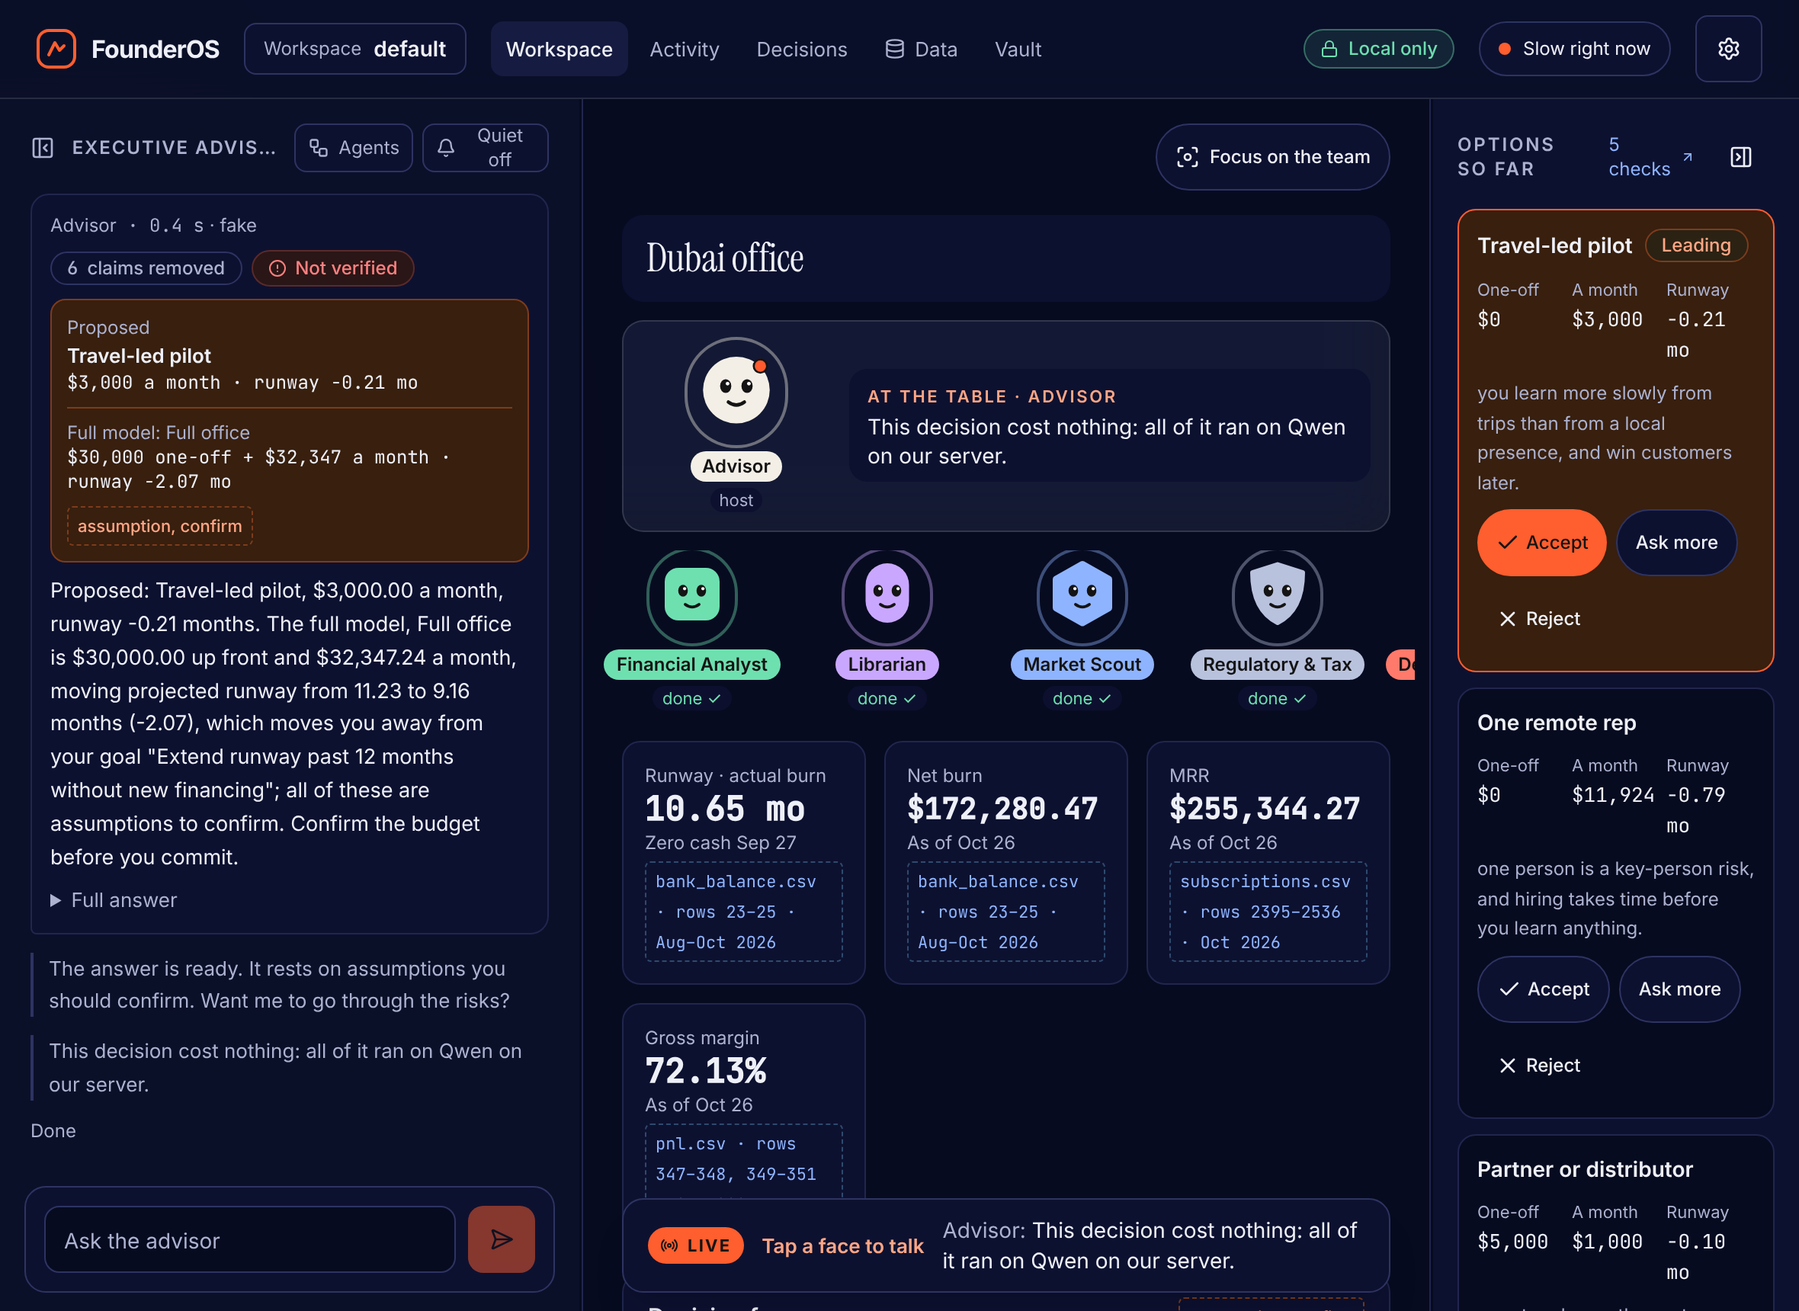
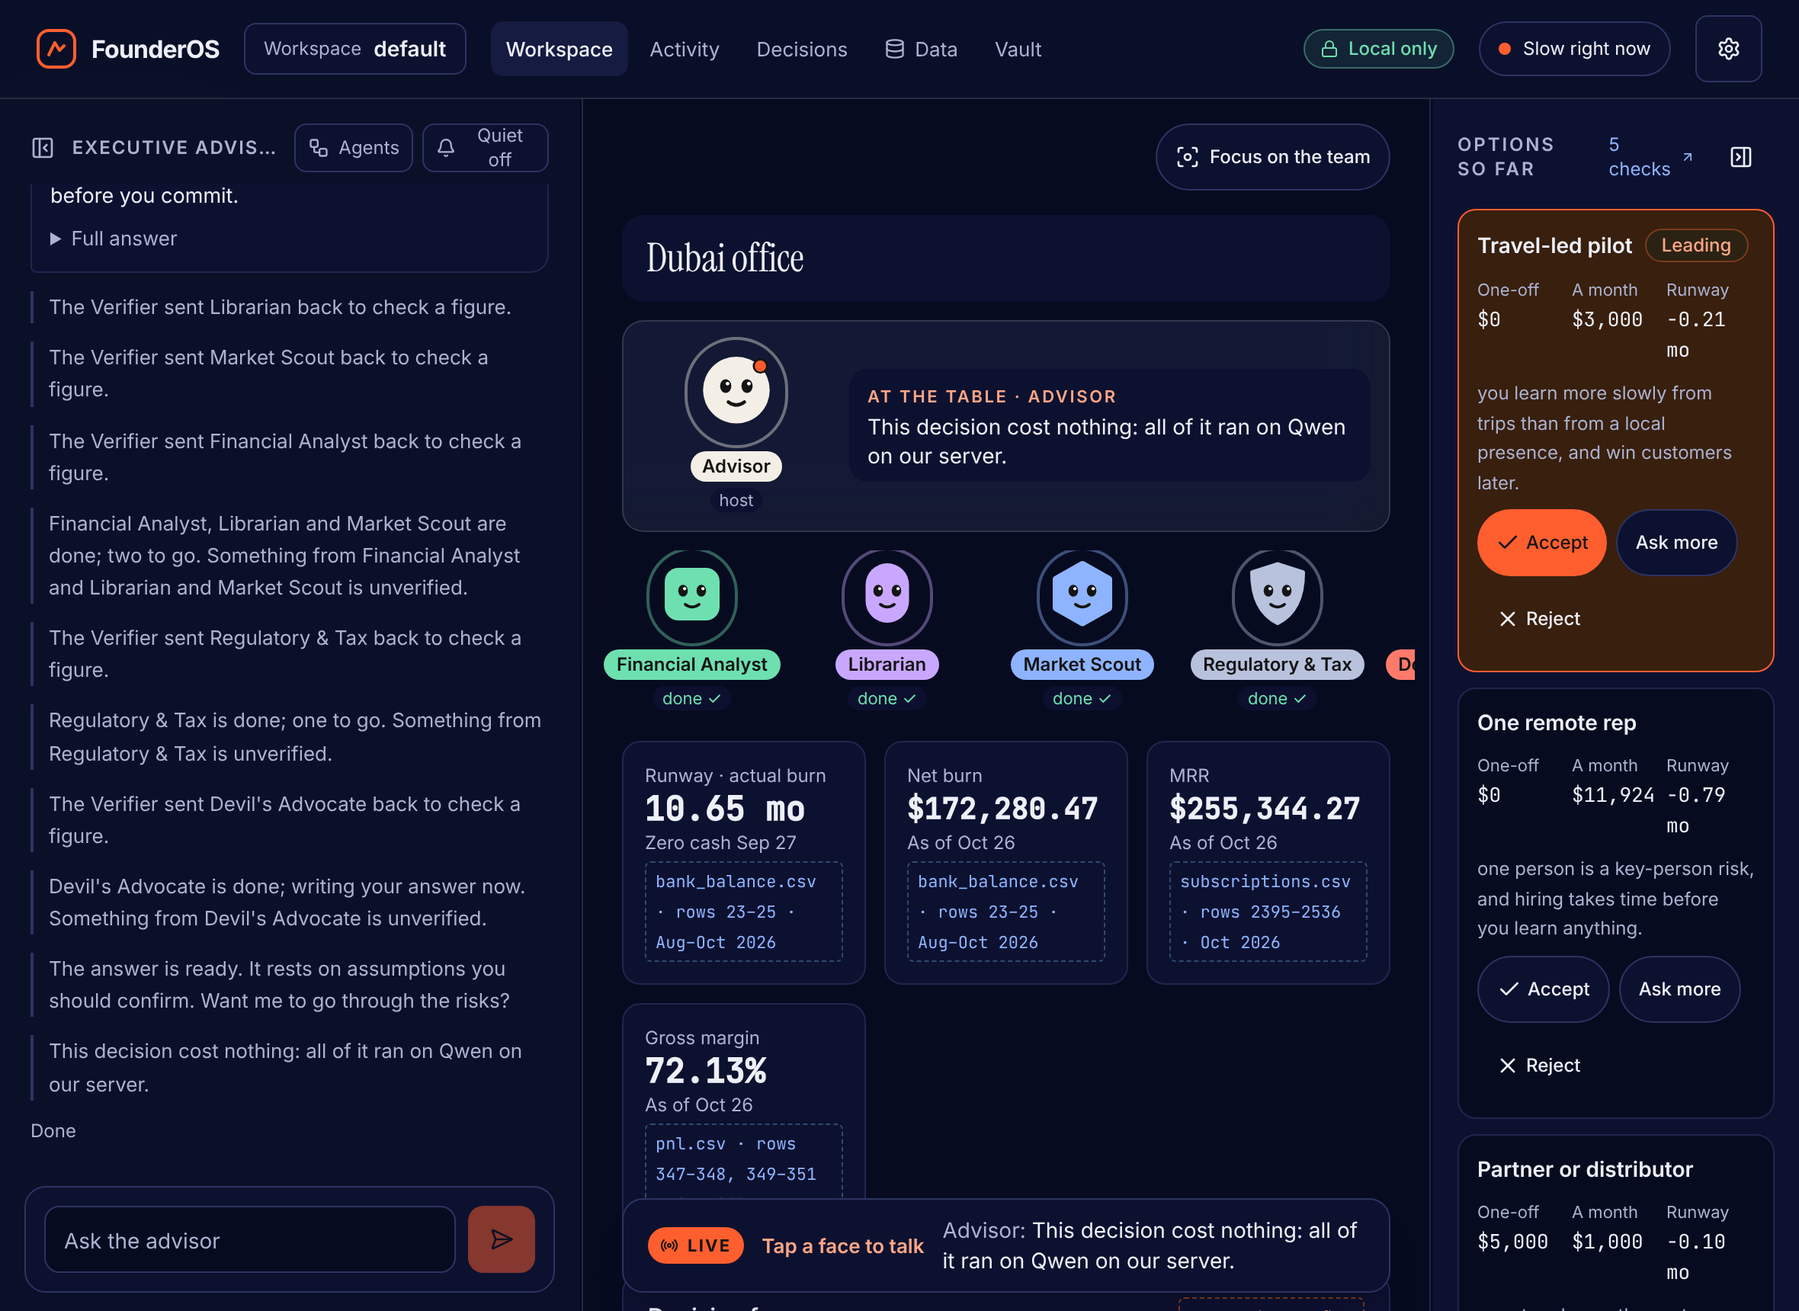
Self-review fixes: voice messages on the phone, brief never takes list items, hush keeps thinking/held states, talkingTo cleared on a failed connect and on Space, Space asks for the mic only in the Boardroom, earlier turns folded by id, seat hover ring, status link role, 'Raising prices' topic
Claude-Session: https://claude.ai/code/session_0169doEoKAnEqghS1bHz9vkb

Changed region(s): [[0.0, 0.1233, 0.3093, 0.7087]]

diff --git a/frontend/src/components/boardroom/Boardroom.tsx b/frontend/src/components/boardroom/Boardroom.tsx
@@ -73,16 +73,20 @@ function seatsOf(run: RunView | null, voiceSpeaking: boolean): { seats: Seat[]; 
 function SeatView({ seat, speaking, voiceSpeaking, size = 56 }: { seat: Seat; speaking: boolean; voiceSpeaking: boolean; size?: number }) {
   const voice = useVoice();
   const color = memberOf(seat.type).color;
-  const talking = voice.talkingTo?.id === seat.id;
+  // Talked to by agent type: a proposed seat and the working agent that replaces it are the same face.
+  const talking = voice.talkingTo?.id === seat.type;
   return (
     <div className="flex w-[124px] flex-col items-center gap-1 text-center" data-testid="seat" data-type={seat.type} title={seat.title}>
       <button
         type="button"
         aria-label={talking ? `Stop talking to ${seat.name}` : `Talk to ${seat.name}`}
         aria-pressed={talking}
-        onClick={() => void voice.talkTo(seat.id, seat.name)}
-        className="rounded-full p-1 transition-shadow hover:shadow-[0_0_0_3px_var(--seat)]"
-        style={{ "--seat": color, boxShadow: talking ? `0 0 0 3px ${color}` : `0 0 0 2px ${color}66` } as CSSProperties}
+        onClick={() => void voice.talkTo(seat.type, seat.name)}
+        className={cn(
+          "rounded-full p-1 transition-shadow",
+          talking ? "shadow-[0_0_0_3px_var(--seat)]" : "shadow-[0_0_0_2px_var(--seat-soft)] hover:shadow-[0_0_0_3px_var(--seat)]",
+        )}
+        style={{ "--seat": color, "--seat-soft": `${color}66` } as CSSProperties}
         data-testid="seat-face"
       >
         <Face type={seat.type} size={size} speaking={speaking} glow={`${color}99`} />
@@ -164,6 +168,7 @@ function PhoneStage({ question, seats, speaking, voiceSeat, line }: { question: 
           </div>
         </div>
       ) : null}
+      <PhoneVoiceNotice />
       {others.length ? (
         <ul className="-mx-4 flex snap-x gap-1 overflow-x-auto px-4 pb-1" aria-label="Who is at the table">
           {others.map((seat) => (
@@ -177,13 +182,32 @@ function PhoneStage({ question, seats, speaking, voiceSeat, line }: { question: 
   );
 }
 
+/** The voice's own message (a blocked mic, "Didn't catch that", "Did you say…?"), on desktop and on the phone. */
+function voiceNotice(voice: ReturnType<typeof useVoice>): string {
+  if (voice.error) return voice.error;
+  if (voice.missed && !voice.heard) return "Didn't catch that. Say it again.";
+  if (voice.unsure && !voice.heard) return `Did you say “${voice.unsure}”? Say yes, or say it again.`;
+  return "";
+}
+
+function PhoneVoiceNotice() {
+  const voice = useVoice();
+  const notice = voiceNotice(voice);
+  if (!notice && !voice.talkingTo) return null;
+  return (
+    <p role={voice.error ? "alert" : "status"} className={cn("rounded-xl bg-card px-3 py-2 text-[13px]", voice.error ? "text-danger" : "text-foreground")} data-testid="phone-voice-notice">
+      {notice || `Talking to ${voice.talkingTo?.name ?? "the team"}`}
+    </p>
+  );
+}
+
 /**
  * The LIVE caption bar (founder F27): what is being said and who the member is talking to. Voice starts on the faces
  * (no "Start voice" button here); while voice is on, Mute (M) and Voice off. Neither stops the team.
  */
 function CaptionBar({ line, who }: { line: string; who: "you" | "advisor" }) {
   const voice = useVoice();
-  const notice = voice.error ?? (voice.missed && !voice.heard ? "Didn't catch that. Say it again." : voice.unsure && !voice.heard ? `Did you say “${voice.unsure}”? Say yes, or say it again.` : "");
+  const notice = voiceNotice(voice);
   const lead = voice.talkingTo ? `Talking to ${voice.talkingTo.name}` : voice.on ? (voice.mode === "ptt" ? "Hold Space to talk" : "Listening") : "Tap a face to talk";
   return (
     <div className="sticky bottom-3 z-20 hidden flex-wrap items-center gap-x-3 gap-y-1.5 rounded-2xl border border-border-strong bg-card px-4 py-2.5 shadow-xl md:flex" data-testid="caption-bar">
@@ -273,6 +297,7 @@ export function BoardroomStage({ children, focus }: { children: React.ReactNode;
       ref={ref}
       className="relative order-1 flex min-w-0 flex-[999_1_0%] flex-col gap-4 px-4 py-4 md:order-none md:px-6"
       data-testid="boardroom"
+      data-voice-keys=""
       data-compact={compact ? "true" : undefined}
     >
       {focus ? (

diff --git a/frontend/src/lib/format.ts b/frontend/src/lib/format.ts
@@ -302,6 +302,17 @@ const TOPIC_LEADS = [
   /^(?:open(?:ing)?|hire|hiring|launch(?:ing)?|start(?:ing)?|build(?:ing)?|buy(?:ing)?|raise|raising|cut(?:ting)?|increase|lower|expand(?:ing)? (?:in)?to|enter(?:ing)?|move (?:to|into)|set up|go (?:for|with)|add(?:ing)?|change|drop)\s+/i,
   /^(?:a|an|the|our|my|your|some|another)\s+/i,
 ];
+const CHANGE_VERB = /^(raise|raising|cut|cutting|increase|lower|drop|change)\s+/i;
+const GERUND: Record<string, string> = {
+  raise: "raising",
+  raising: "raising",
+  cut: "cutting",
+  cutting: "cutting",
+  increase: "increasing",
+  lower: "lowering",
+  drop: "dropping",
+  change: "changing",
+};
 const GENERIC_SUBJECT = /^(?:this|that|the)\s+(?:decision|change|hire|fundraise|price change|spending change)$/i;
 
 /**
@@ -311,9 +322,16 @@ const GENERIC_SUBJECT = /^(?:this|that|the)\s+(?:decision|change|hire|fundraise|
 export function topicOf(question: string, maxWords = 6): string {
   let text = runTitle(question, 400).split(" · changed: ")[0]?.trim() ?? "";
   text = text.replace(/[?!.。]+$/u, "").replace(/^["'“”]+|["'“”]+$/g, "").trim();
+  let gerund = "";
   for (let pass = 0; pass < 3; pass += 1) {
-    for (const lead of TOPIC_LEADS) text = text.replace(lead, "");
+    for (const lead of TOPIC_LEADS) {
+      // A change verb is the topic itself: "raise our prices" → "Raising prices", never "Prices".
+      const change = lead === TOPIC_LEADS[5] ? CHANGE_VERB.exec(text) : null;
+      if (change && !gerund) gerund = GERUND[(change[1] ?? "").toLowerCase()] ?? "";
+      text = text.replace(lead, "");
+    }
   }
+  if (gerund) text = `${gerund} ${text}`;
   text = text.replace(/\s+(?:now|next year|this year|or not|at all|right now)$/i, "").trim();
   const words = text.split(/\s+/).filter(Boolean);
   if (!words.length) return runTitle(question);
@@ -361,7 +379,11 @@ function plainText(markdown: string): string {
  * A figure's decimal point ("$1.5M", "2.4 months") is not a sentence end. Returns the brief and whether it is shorter.
  */
 export function briefAnswer(markdown: string, max = 3): { brief: string; more: boolean } {
-  const text = plainText(markdown);
+  // Only the prose before the first list, table, heading or bold-only line is the answer's lead; the rest is detail.
+  const lines = markdown.split(/\r?\n/);
+  const cut = lines.findIndex((l) => /^\s*(?:[-*+]\s|\d+[.)]\s|\||#{1,6}\s|\*\*[^*]+\*\*:?\s*$|__[^_]+__:?\s*$)/.test(l));
+  const lead = cut === -1 ? markdown : lines.slice(0, cut).join("\n");
+  const text = plainText(lead) || plainText(markdown);
   // A sentence ends at . ! or ? followed by a space: "$1.5M" and "2.4 months" never split.
   const sentences = text.split(/(?<=[.!?]["”')\]]*)\s+/).map((s) => s.trim()).filter(Boolean);
   const merged: string[] = [];
@@ -371,6 +393,5 @@ export function briefAnswer(markdown: string, max = 3): { brief: string; more: b
     if (prev && /\b(?:e\.g|i\.e|vs|approx|etc|Mr|Ms|Dr|No)\.$/i.test(prev)) merged[merged.length - 1] = `${prev} ${s}`;
     else merged.push(s);
   }
-  const structured = /(?:^|\n)\s*(?:[-*+]\s|\d+[.)]\s|\||#{1,6}\s)/.test(markdown);
-  return { brief: merged.slice(0, max).join(" "), more: merged.length > max || structured };
+  return { brief: merged.slice(0, max).join(" "), more: merged.length > max || cut > 0 };
 }

diff --git a/frontend/src/components/chat/AdvisorPanel.tsx b/frontend/src/components/chat/AdvisorPanel.tsx
@@ -134,7 +134,10 @@ function AgentsButton({ onAgents, agentsOpen, compact }: { onAgents: () => void;
 }
 
 export function AdvisorPanel({ width, collapsed = false, onToggle, onAgents, agentsOpen = false }: PanelProps = {}) {
-  const { state, send, toggleQuiet, restoredTurns } = useWorkspace();
+  const { state, send, toggleQuiet, restoredTurnIds } = useWorkspace();
+  // Founder F22: folded by id, so a restored card the reducer moves to the end stays folded and a new turn never folds.
+  const earlier = state.turns.filter((t) => restoredTurnIds.has(t.id));
+  const now = earlier.length ? state.turns.filter((t) => !restoredTurnIds.has(t.id)) : state.turns;
   const renderTurn = (turn: Turn) => {
     if (turn.role === "you") {
       return (
@@ -260,14 +263,14 @@ export function AdvisorPanel({ width, collapsed = false, onToggle, onAgents, age
             </div>
           </div>
         ) : null}
-        {restoredTurns > 0 ? (
+        {earlier.length > 0 ? (
           // Founder F22: what was said in an earlier visit stays folded; the Advisor never recites it unasked.
           <details className="rounded-xl border border-border bg-card px-3 py-2 text-[13px]" data-testid="earlier-turns">
-            <summary className="cursor-pointer text-muted-foreground">Earlier in this conversation ({restoredTurns})</summary>
-            <div className="mt-2 flex flex-col gap-3">{state.turns.slice(0, restoredTurns).map(renderTurn)}</div>
+            <summary className="cursor-pointer text-muted-foreground">Earlier in this conversation ({earlier.length})</summary>
+            <div className="mt-2 flex flex-col gap-3">{earlier.map(renderTurn)}</div>
           </details>
         ) : null}
-        {state.turns.slice(restoredTurns).map(renderTurn)}
+        {now.map(renderTurn)}
         {progress ? (
           <p className="text-xs text-muted-foreground" data-testid="run-progress" aria-live="polite">
             {progress}

diff --git a/frontend/src/components/boardroom/boardroom.gate.test.tsx b/frontend/src/components/boardroom/boardroom.gate.test.tsx
@@ -31,7 +31,7 @@ const voice = {
   voice: "speaking",
   on: true,
   mode: "duplex",
-  talkingTo: { id: "a1", name: "Market Scout" } as { id: string; name: string } | null,
+  talkingTo: { id: "market_scout", name: "Market Scout" } as { id: string; name: string } | null,
   talkTo: vi.fn(),
   hush: vi.fn(),
   muted: false,
@@ -98,7 +98,7 @@ describe("F27 voice lives on the faces", () => {
     render(<BoardroomStage>{null}</BoardroomStage>);
     const table = screen.getByTestId("boardroom-table");
     fireEvent.click(within(table).getByRole("button", { name: "Talk to Librarian" }));
-    expect(voice.talkTo).toHaveBeenCalledWith("a2", "Librarian");
+    expect(voice.talkTo).toHaveBeenCalledWith("librarian", "Librarian");
     expect(within(table).getByRole("button", { name: "Stop talking to Market Scout" })).toHaveAttribute("aria-pressed", "true");
     expect(screen.getByTestId("talking-to")).toHaveTextContent("Talking to Market Scout");
     expect(screen.queryByText("Start voice")).not.toBeInTheDocument();
@@ -121,6 +121,13 @@ describe("F27 voice lives on the faces", () => {
     expect(typingIn(input)).toBe(true);
     expect(typingIn(button)).toBe(true);
     expect(typingIn(div)).toBe(false);
+  });
+});
+
+describe("F27 the voice's messages on the phone", () => {
+  it("shows who the member talks to, and a blocked mic, in the phone stage", () => {
+    render(<BoardroomStage>{null}</BoardroomStage>);
+    expect(screen.getAllByTestId("phone-voice-notice")[0]).toHaveTextContent("Talking to Market Scout");
   });
 });
 

diff --git a/frontend/src/lib/workspace.tsx b/frontend/src/lib/workspace.tsx
@@ -516,8 +516,8 @@ interface WorkspaceApi {
    */
   entered: boolean;
   enter: () => void;
-  /** Founder F22: how many turns were restored from an earlier visit (shown folded, never recited). */
-  restoredTurns: number;
+  /** Founder F22: the turns restored from an earlier visit, by id (shown folded, never recited). */
+  restoredTurnIds: ReadonlySet<string>;
 }
 
 const Context = createContext<WorkspaceApi | null>(null);
@@ -575,7 +575,7 @@ export function WorkspaceProvider({ children }: { children: ReactNode }) {
   const followed = useRef(new Set<string>());
   const [entered, setEntered] = useState(false);
   const enter = useCallback(() => setEntered(true), []);
-  const restoredTurns = useRef(state.turns.length).current;
+  const restoredTurnIds = useRef<ReadonlySet<string>>(new Set(state.turns.map((t) => t.id))).current;
 
   // A reload keeps the conversation and the open decision (founder review 17). Streaming text saves at most twice a second.
   useEffect(() => {
@@ -797,9 +797,9 @@ export function WorkspaceProvider({ children }: { children: ReactNode }) {
           .sort((a, b) => b.startedAt.localeCompare(a.startedAt))[0] ?? null,
       entered,
       enter,
-      restoredTurns,
+      restoredTurnIds,
     }),
-    [state, send, follow, toggleQuiet, amendment, queued, slow, spoken, entered, enter, restoredTurns],
+    [state, send, follow, toggleQuiet, amendment, queued, slow, spoken, entered, enter, restoredTurnIds],
   );
   return <Context.Provider value={value}>{children}</Context.Provider>;
 }

diff --git a/frontend/src/components/m7bgate.test.tsx b/frontend/src/components/m7bgate.test.tsx
@@ -35,7 +35,7 @@ describe("F24 the table shows the current topic", () => {
     const dubai = { message: "Should we open a Dubai office?", subject: "This decision" };
     expect(tableTopic(dubai, { message: dubai.message, isDecision: true })).toBe("Dubai office");
     expect(tableTopic({ ...dubai, subject: "A full Dubai office" }, null)).toBe("Dubai office");
-    expect(tableTopic(dubai, { message: "Should we raise prices by 10%?", isDecision: false })).toBe("Prices by 10%");
+    expect(tableTopic(dubai, { message: "Should we raise our prices by 10%?", isDecision: false })).toBe("Raising prices by 10%");
     // Accept and Ask more are steps of the open decision: the topic stays.
     expect(tableTopic(dubai, { message: 'Go with "Partner or distributor": write the decision memo.', isDecision: false })).toBe("Dubai office");
   });
@@ -93,6 +93,9 @@ describe("F23 the Advisor answers in 3 sentences or fewer", () => {
     expect(brief).toBe("Open through a partner first. It keeps the runway above 14 months. A full office costs $1.5M more a year.");
     expect(more).toBe(true);
     expect(briefAnswer("Runway is 14.2 months.").more).toBe(false);
+    // a short answer followed by lists: the lists never reach the brief
+    const short = briefAnswer("Go partner-first.\n\n**Kill criteria**\n- Revenue under $40k\n- Churn over 10 %");
+    expect(short).toEqual({ brief: "Go partner-first.", more: true });
   });
 
   it("folds the rest under Full answer", () => {

diff --git a/frontend/src/lib/voiceContext.tsx b/frontend/src/lib/voiceContext.tsx
@@ -178,6 +178,7 @@ export function VoiceProvider({ children }: { children: ReactNode }) {
       setMode("duplex");
       modeRef.current = "duplex";
       await connect();
+      if (!client.current) setTalkingTo(null); // the mic or the socket failed: nobody is being talked to
     },
     [connect, switchMode],
   );
@@ -193,12 +194,17 @@ export function VoiceProvider({ children }: { children: ReactNode }) {
       }
       if (typingIn(e.target)) return;
       if (e.code === "Space") {
+        // Voice off: Space starts it only in the Boardroom (it never asks for the mic while reading a page).
+        if (!client.current && !document.querySelector("[data-voice-keys]")) return;
         e.preventDefault();
         if (e.repeat || held.current) return;
         held.current = true;
         void (async () => {
           if (!client.current) await connect();
-          if (modeRef.current !== "ptt") switchMode("ptt");
+          if (modeRef.current !== "ptt") {
+            switchMode("ptt");
+            setTalkingTo(null); // holding to talk ends hands-free talking to a face
+          }
           if (held.current) client.current?.pttStart();
         })();
       } else if ((e.key === "m" || e.key === "M") && client.current) {

diff --git a/frontend/src/components/HealthBadge.tsx b/frontend/src/components/HealthBadge.tsx
@@ -21,14 +21,13 @@ export function SystemStatus({ health }: { health: HealthState }) {
   return (
     <a
       href="#/settings"
-      role="status"
       title="Details in Settings → System"
       className="inline-flex h-9 items-center gap-2 rounded-full border border-border-strong bg-card px-3 text-xs text-foreground hover:bg-accent hover:no-underline"
       data-testid="system-status"
       data-state={word}
     >
       <span aria-hidden="true" className={cn("h-2 w-2 rounded-full", SYSTEM_DOT[word])} />
-      {SYSTEM_TEXT[word]}
+      <span aria-live="polite">{SYSTEM_TEXT[word]}</span>
     </a>
   );
 }

diff --git a/backend/tests/test_m7b_gate.py b/backend/tests/test_m7b_gate.py
@@ -46,9 +46,11 @@ async def _working_team(finance: Any) -> tuple[Any, Any, Any, Any, str]:
 async def test_hush_stops_the_speech_and_never_the_team(finance: Any) -> None:
     provider, session, wire, manager, run_id = await _working_team(finance)
     run = manager.orchestrator.runs[run_id]
+    session.speaking_until = 0.0  # nothing is being said right now
+    before = len(wire.of("state"))
     await session.control({"type": "hush"})
     await wait_for(lambda: any(m.get("reason") == "hush" for m in wire.of("interrupt")))
-    assert wire.of("state")[-1]["state"] == "idle"  # push-to-talk: back to waiting for the member
+    assert len(wire.of("state")) == before  # nothing was being said: the state (e.g. "thinking") is left alone
     assert not run.task.done() and not run.cancel_requested
     assert not any(m["text"] == "That run was cancelled." for m in wire.of("say"))
     provider.release.set()
@@ -65,3 +67,25 @@ async def test_ending_the_voice_never_cancels_a_running_team(finance: Any) -> No
     provider.release.set()
     result = await run.task
     assert result.status == "done"
+
+
+async def test_hush_while_speaking_returns_to_waiting_for_the_member(finance: Any) -> None:
+    provider, session, wire, _manager, _run_id = await _working_team(finance)
+    session.speaking_until = session.clock() + 5.0  # the voice is mid-sentence
+    session._audio_end = session.speaking_until
+    await session.control({"type": "hush"})
+    await wait_for(lambda: bool(wire.of("state")) and wire.of("state")[-1]["state"] == "idle")
+    assert not session.speaking()
+    provider.release.set()
+    await session.close()
+
+
+async def test_hush_leaves_a_held_push_to_talk_listening(finance: Any) -> None:
+    provider, session, wire, _manager, _run_id = await _working_team(finance)
+    await session.control({"type": "ptt_start"})
+    session.speaking_until = session.clock() + 5.0
+    await session.control({"type": "hush"})
+    assert wire.of("state")[-1]["state"] in ("listening", "interrupted")
+    assert session.ptt_active
+    provider.release.set()
+    await session.close()

diff --git a/backend/app/voice/session.py b/backend/app/voice/session.py
@@ -322,8 +322,11 @@ class VoiceSession:
         elif kind == "hush":
             # Founder F27: the Stop button under the speaking face (or Esc). Only the speech stops: queued lines and
             # the audio being made go; the team, its research and its numbers carry on (no stop of the run).
+            was_speaking = self.speaking()
             await self._interrupt("hush")
-            await self._set_state("listening" if self.config.mode == "duplex" else "idle")
+            # Only a voice that was speaking goes back to listening; "thinking" or a held push-to-talk is left as is.
+            if was_speaking and not self.ptt_active:
+                await self._set_state("listening" if self.config.mode == "duplex" else "idle")
         elif kind == "playback_stopped" and self.barge is not None:
             flushed = message.get("flush_ms")
             if isinstance(flushed, int | float):
